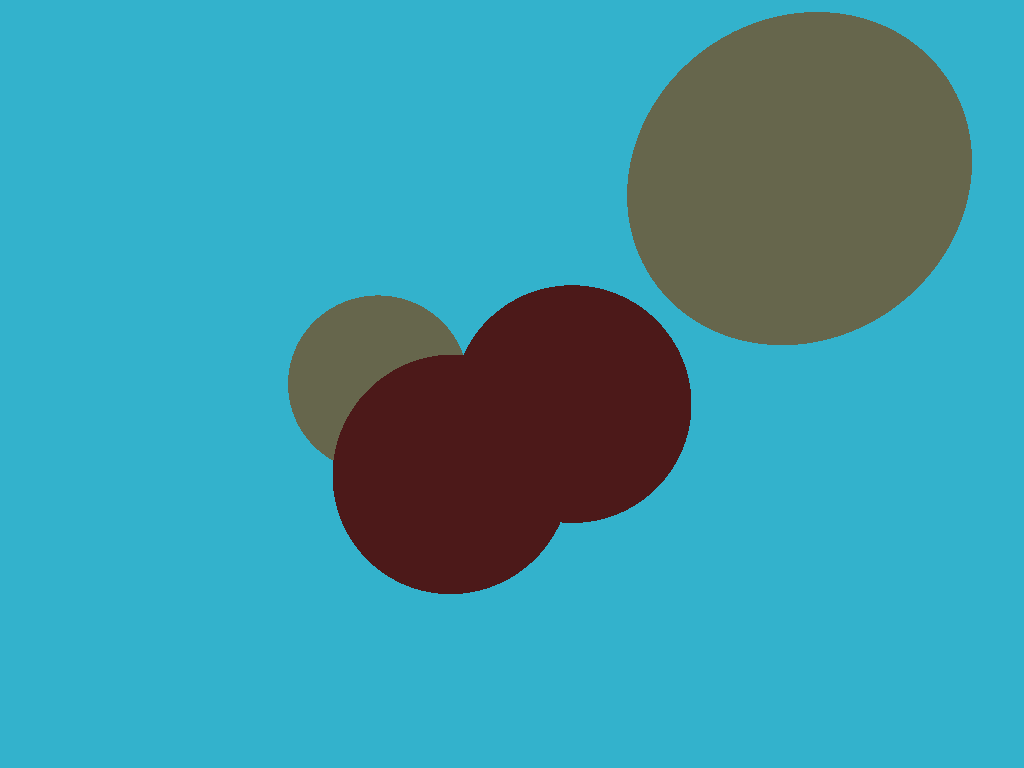
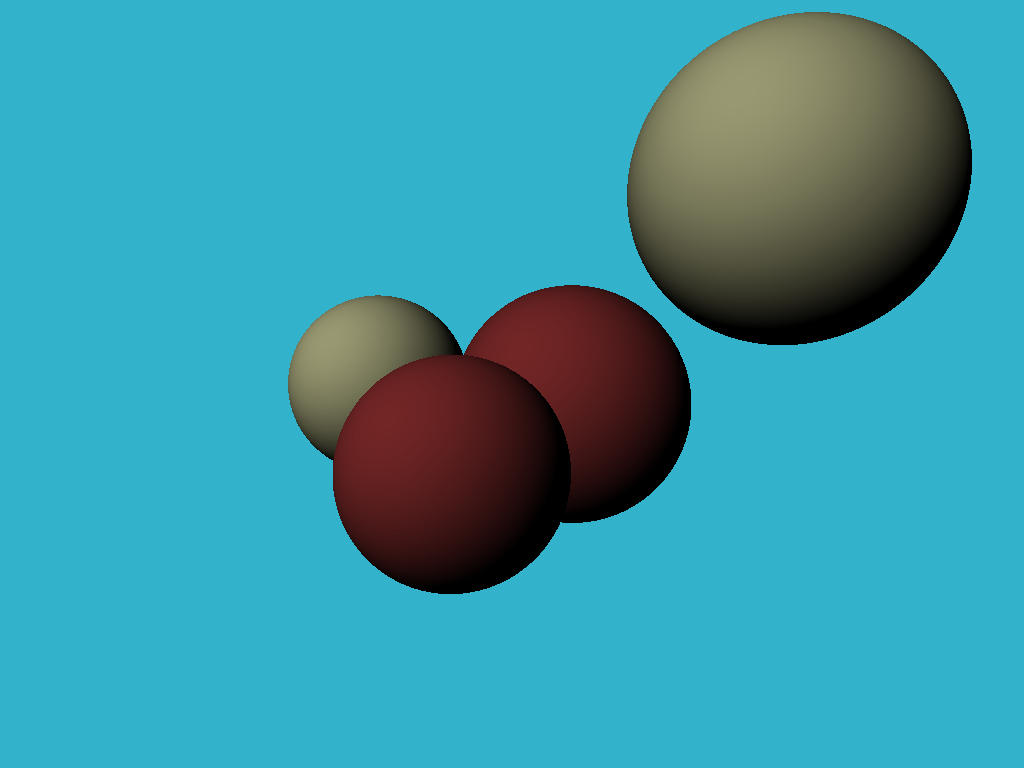
Add in diffuse lighting

Changed region(s): [[0.2812, 0.0312, 0.9688, 0.7812], [0.625, 0.0312, 0.8438, 0.25]]

diff --git a/pyray.py b/pyray.py
@@ -7,6 +7,16 @@ import time
 from numba import jitclass, njit, deferred_type
 import numba
 
+lightSpec = [
+    ('position', numba.float64[:]),
+    ('intensity', numba.float64),
+]
+@jitclass(lightSpec)
+class Light:
+    def __init__(self, position, intensity):
+        self.position = np.array(position)
+        self.intensity = float(intensity)
+
 matSpec = [
     ('color', numba.float64[:]),
     ('difuse_color', numba.float64[:]),
@@ -18,14 +28,14 @@ class Material:
         self.color = np.array(color)
         self.difuse_color = self.color
 
-material_type = deferred_type()
-material_type.define(Material.class_type.instance_type)
+#material_type = deferred_type()
+#material_type.define(Material.class_type.instance_type)
 
 sphereSpec = [
     ('center', numba.float64[:]),
     ('radius', numba.float64),
     ('radius2', numba.float64),
-    ('material', material_type),
+#    ('material', material_type),
 ]
 
 @jitclass(sphereSpec)
@@ -63,27 +73,33 @@ def scene_intersect(orig, dir, spheres):
     spheres_dist = 1e308
     N = None
     material = None
+    hit = None
     for s in spheres:
         (intersect, dist) = s.ray_intersect(orig, dir)
         if intersect:
             if dist < spheres_dist:
                 spheres_dist = dist
                 hit = orig + (dir * dist)
-                N_vec = (hit - s.center)
+                N_vec = np.subtract(hit, s.center)
                 N = N_vec/LA.norm(N_vec)
                 material = s.material
     
-    return (spheres_dist, material, N)
+    return (spheres_dist, material, N, hit)
 
 @njit
-def cast_ray(orig, dir, spheres, background):
-    (spheres_dist, material, N) = scene_intersect(orig, dir, spheres)
+def cast_ray(orig, dir, spheres, background, lights):
+    (spheres_dist, material, N, point) = scene_intersect(orig, dir, spheres)
     if material is not None and spheres_dist < 1000:
-        return material.difuse_color
+        diffuse_light_intensity = 0.0
+        for l in lights:
+            light_dir = np.subtract(l.position, point)
+            light_dir = light_dir/LA.norm(light_dir)
+            diffuse_light_intensity += l.intensity * max(0.0, np.sum(light_dir*N))
+        return material.difuse_color * diffuse_light_intensity
     return background.difuse_color
 
 @njit
-def getFB(width, height, spheres, background):
+def getFB(width, height, spheres, background, lights):
     fov = int(math.pi / 2)
     tanfovo2 = math.tan(fov/2)
     tanfovo2timeswidthdivheight = tanfovo2*width/float(height)
@@ -98,19 +114,19 @@ def getFB(width, height, spheres, background):
             y = -(2*(j + 0.5)/fheight - 1)*tanfovo2
             p = np.array([x,y,-1])
             dir = p/LA.norm(p)
-            framebuffer.append(cast_ray(origin, dir, spheres, background))
+            framebuffer.append(cast_ray(origin, dir, spheres, background, lights))
         if j % 32 == 0:
             print("Done row")
 
     return framebuffer
 
-def render(sphere, background):
+def render(sphere, background, lights):
     print("Hello, World!\n")
     width = 1024
     height = 768
     img = Image.new('RGB', (width, height))
 
-    framebuffer = getFB(width, height, sphere, background)
+    framebuffer = getFB(width, height, sphere, background, lights)
 
     data = img.load()
 
@@ -132,8 +148,11 @@ if __name__ == "__main__":
     s.append(Sphere([1.5,   -0.5,   -18.0], 3.0, red_rubber))
     s.append(Sphere([7.0,   5.0,    -18.0], 4.0, ivory))
 
+    l = []
+    l.append(Light([-20.0,   20.0,    20.0], 1.5))
+
     start = time.time()
-    render(s, background)
+    render(s, background, l)
     stop = time.time()
 
     print('Elapsed time: {}'.format(stop - start))
